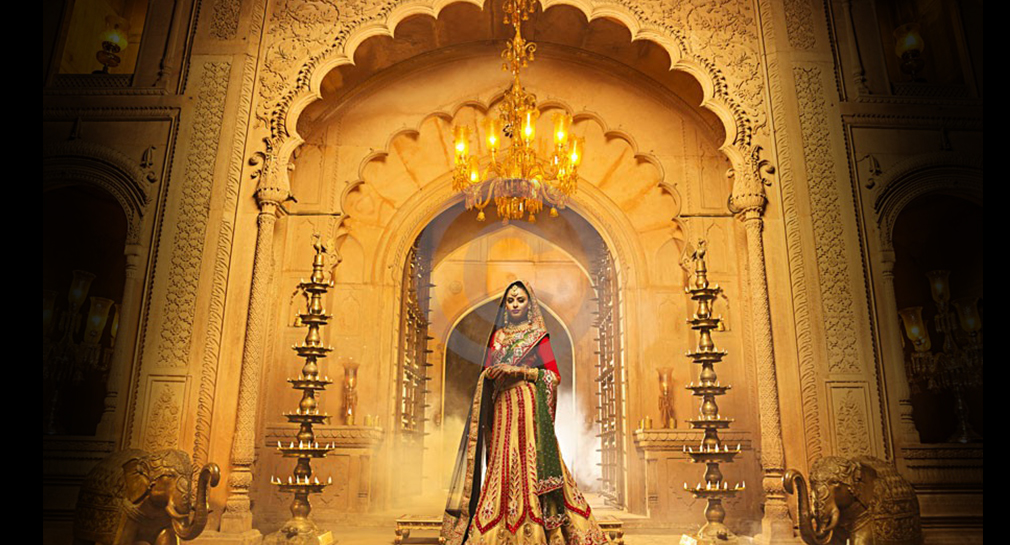
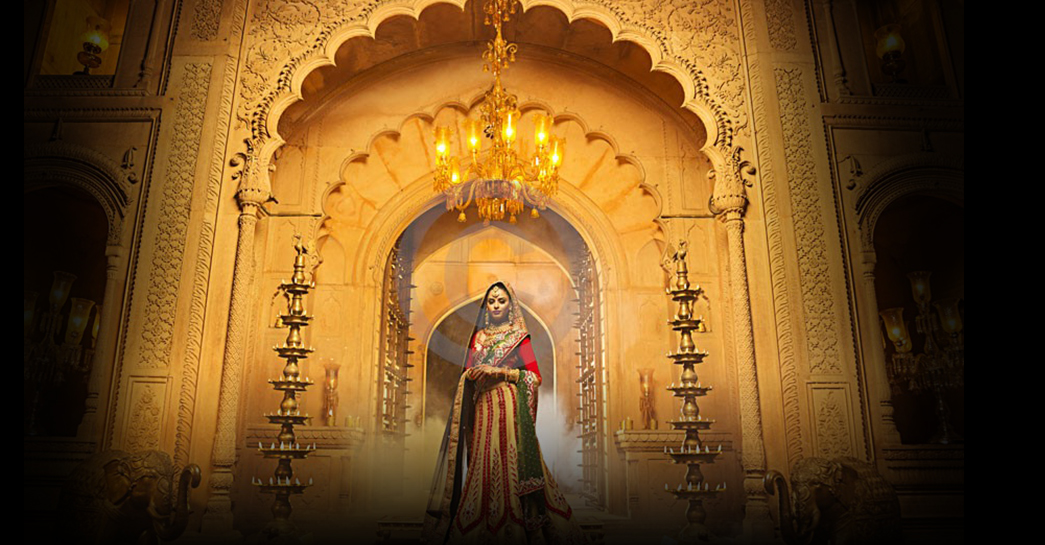
changes

diff --git a/Assignment_8_Front_End/Html/Assignment_4/css/style.css b/Assignment_8_Front_End/Html/Assignment_4/css/style.css
@@ -114,7 +114,7 @@ time, mark, audio, video {
 }
 
 .bannerImage {
-	background-image:url("../images/grandWeddingWallpaper.png");
+	background-image:url("../images/banner_image.jpg");
 	height:545px;
 	position: relative;
 }
@@ -134,7 +134,9 @@ h1{
 	font-size:22px;
 }
 
-
+#eventOptions {
+	font-family: Arial,Helvetica,sans-serif;
+}
 #eventOptions a{
 	text-decoration: none;
 	color: white;
@@ -149,6 +151,7 @@ h1{
 	color:white;
 	padding-top: 19px;
 	padding-bottom: 19px;
+	font-size: 22px;
 }
 
 #eventOptions ul {
@@ -179,6 +182,7 @@ h1{
 
 #eventGallery {
 	margin-bottom: 70px;
+	font-family: Arial,Helvetica,sans-serif;
 }
 h2 {
 	font-size:40px;
